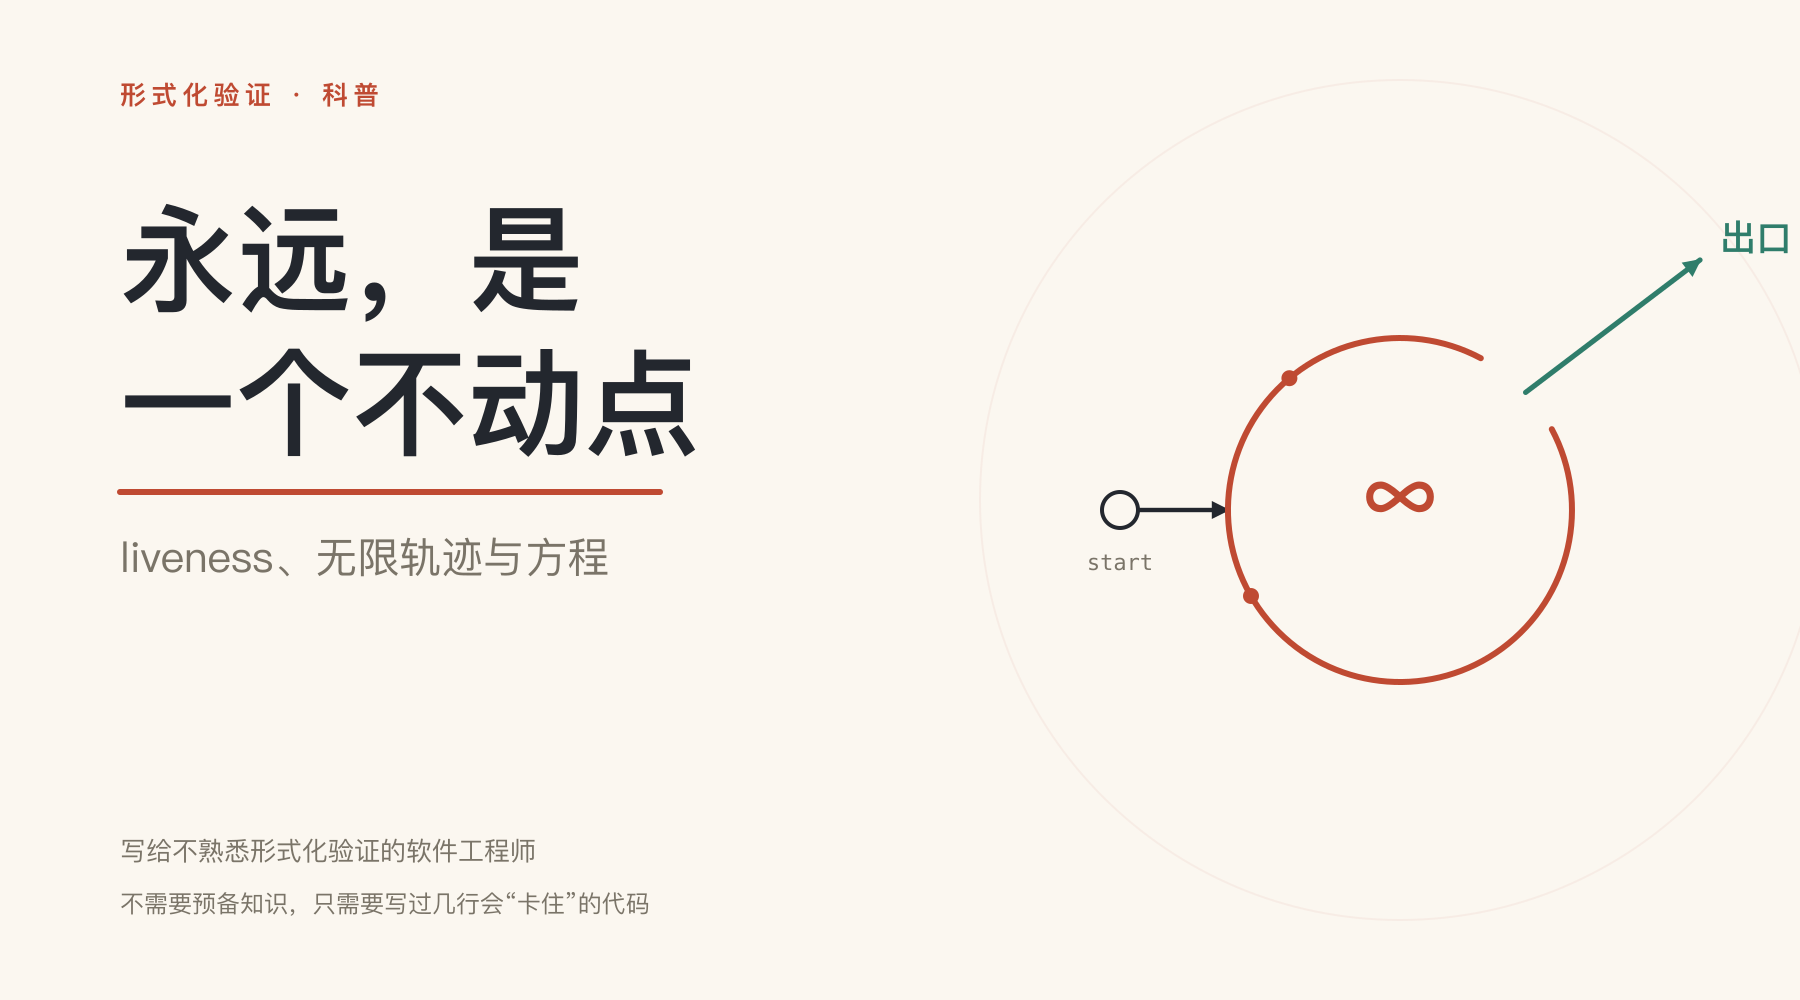
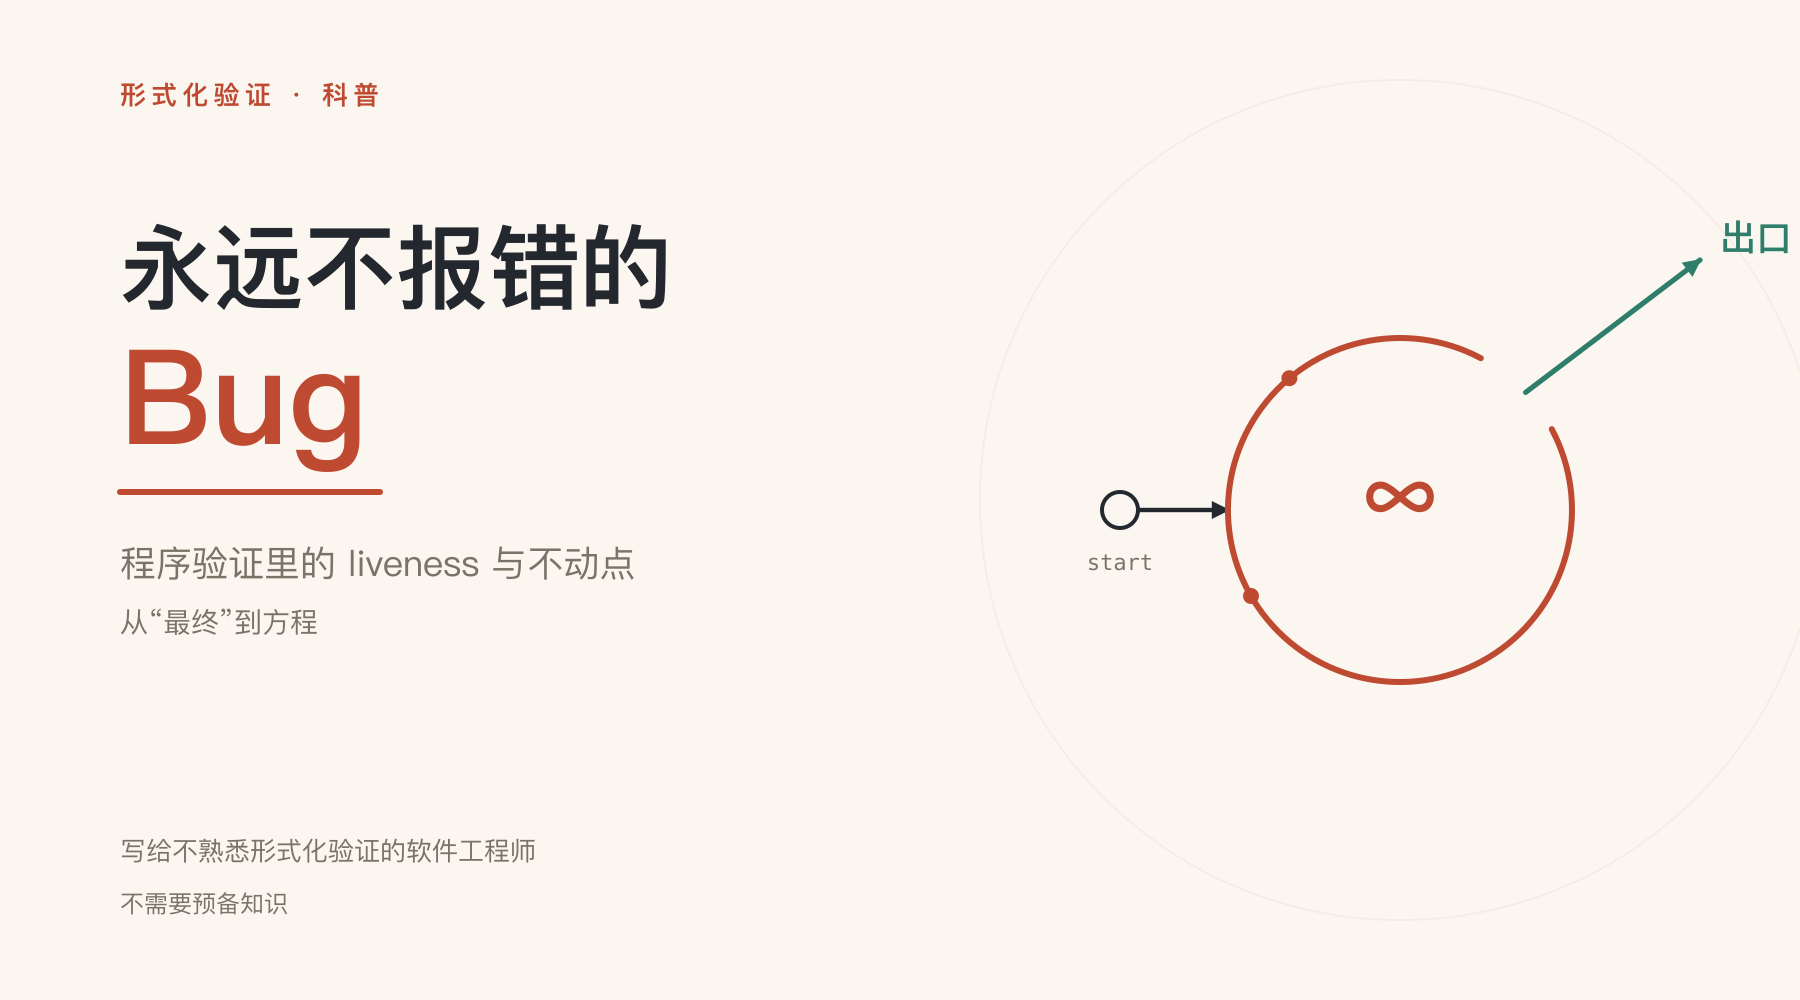
docs: 按 review 调整标题、开篇示例与概念引入

diff --git a/figures/build.py b/figures/build.py
@@ -157,7 +157,7 @@ def fig1():
     h = 500
     s = SVG(W, h)
     kicker(s, "图 1 / SAFETY & LIVENESS")
-    title(s, "两种坏消息", "证据的长度，决定了你该怎么找它")
+    title(s, "两种 Bug", "证据的长度，决定了你该怎么找它")
 
     # panels
     for x in (40, 470):
@@ -206,7 +206,7 @@ def fig1():
     s.path("M 512 345 L 512 356 L 777 356 L 777 345", stroke=RED, sw=1.6)
     s.text(645, 382, "任意长的前缀", size=16, fill=RED, anchor="middle", weight="600")
     s.text(494, 416, "看多久都不能定罪", size=15, fill=INK)
-    s.save("01-two-kinds-of-bad-news")
+    s.save("01-two-kinds-of-bugs")
 
 
 # ---------------------------------------------------------------- figure 2
@@ -214,7 +214,7 @@ def fig2():
     h = 540
     s = SVG(W, h)
     kicker(s, "图 2 / LASSO")
-    title(s, "反例的形状：套索", "有限图里的无限坏行为，总能写成一个环")
+    title(s, "反例的形状：一个环", "有限图里的无限坏行为，总能写成一个环")
 
     # blob around the cycle
     s.path("M 312 280 C 310 196 392 166 462 190 C 530 213 535 340 470 372 "
@@ -469,12 +469,13 @@ def cover():
     # a faint oversized ring in the background
     s.circle(700, 250, 210, fill="none", stroke=RED, sw=1, opacity=0.06)
     s.text(60, 52, "形式化验证 · 科普", size=13, fill=RED, spacing=2.6, weight="700")
-    s.text(60, 150, "永远，是", size=58, fill=INK, weight="700")
-    s.text(60, 222, "一个不动点", size=58, fill=INK, weight="700")
-    s.path("M 60 246 L 330 246", stroke=RED, sw=3)
-    s.text(60, 286, "liveness、无限轨迹与方程", size=21, fill=MUTED)
+    s.text(60, 150, "永远不报错的", size=46, fill=INK, weight="700")
+    s.text(60, 222, "Bug", size=66, fill=RED, weight="700")
+    s.path("M 60 246 L 190 246", stroke=RED, sw=3)
+    s.text(60, 288, "程序验证里的 liveness 与不动点", size=18, fill=MUTED)
+    s.text(60, 316, "从“最终”到方程", size=14, fill=MUTED)
     s.text(60, 430, "写给不熟悉形式化验证的软件工程师", size=13, fill=MUTED)
-    s.text(60, 456, "不需要预备知识，只需要写过几行会“卡住”的代码", size=12, fill=MUTED)
+    s.text(60, 456, "不需要预备知识", size=12, fill=MUTED)
 
     # lasso: stem into a loop with an exit
     cx, cy, r = 700, 255, 86

diff --git a/figures/make_preview.py b/figures/make_preview.py
@@ -10,11 +10,11 @@ subprocess.run(["pandoc", str(md), "-f", "markdown", "-t", "html5",
                 "--no-highlight", "-o", str(frag_path)], check=True)
 frag = frag_path.read_text(encoding="utf-8")
 
-# subtitle -> styled subtitle + meta line
-frag = frag.replace(
-    '<p><em>从“永远不会发生的 bug”说起：liveness、无限轨迹与方程</em></p>',
-    '<p class="subtitle"><em>从“永远不会发生的 bug”说起：liveness、无限轨迹与方程</em></p>\n'
-    '<div class="meta">约 15 分钟 · 5 张图</div>')
+# subtitle -> styled subtitle + meta line (the first <p><em> after the h1)
+frag = re.sub(
+    r'(</h1>\s*)<p><em>(.*?)</em></p>',
+    r'\1<p class="subtitle"><em>\2</em></p>\n<div class="meta">约 15 分钟 · 5 张图</div>',
+    frag, count=1, flags=re.S)
 
 # figure captions
 frag = frag.replace('<p><em>图 ', '<p class="caption"><em>图 ')
@@ -144,8 +144,8 @@ doc = f"""<!doctype html>
 <head>
 <meta charset="utf-8">
 <meta name="viewport" content="width=device-width, initial-scale=1">
-<title>永远，是一个不动点</title>
-<meta name="description" content="写给软件工程师的 liveness 与不动点科普：从永远不会发生的 bug，到无限轨迹、套索与公平性。">
+<title>永远不报错的 Bug</title>
+<meta name="description" content="写给软件工程师的 liveness 与不动点科普：从永远不报错的 Bug，到无限轨迹、套索与公平性。">
 <style>{css}</style>
 </head>
 <body>
